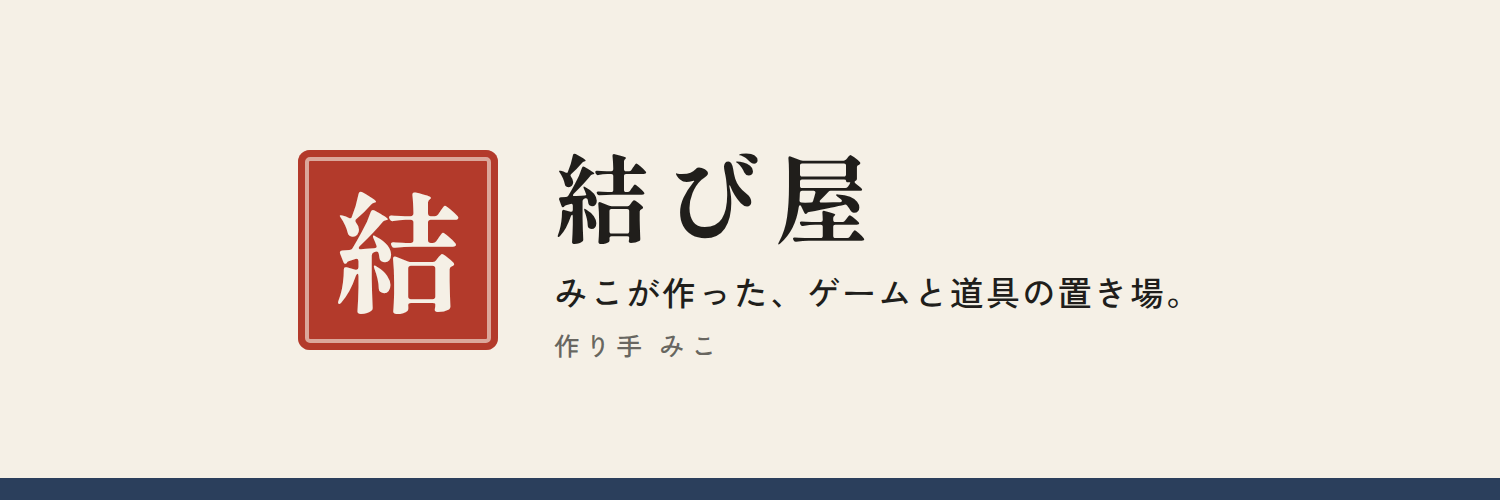
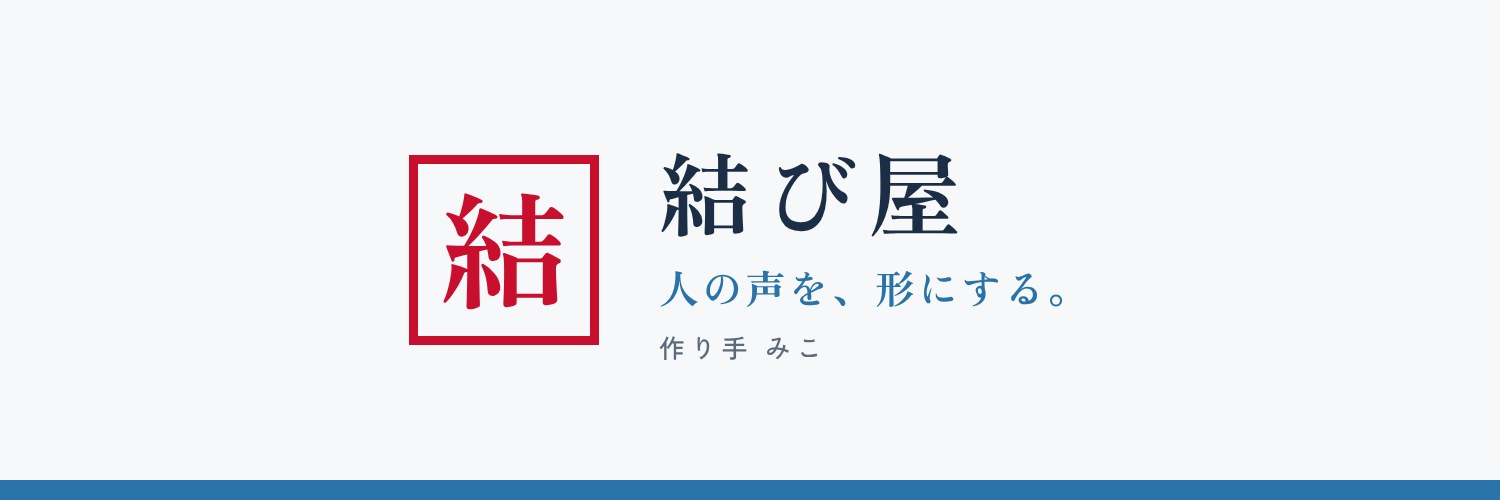
OFUSE の紹介文と画像を、今の結び屋に合わせて作り直す
- 紹介文を「人の声を、形にする。」と教室やお店向けの道具・解説に合わせる
- アイコンとヘッダーをサイトの今の見た目で作り直す（ofuse/ は公開されない）

Claude-Session: https://claude.ai/code/session_012Tf3nuDT6UEWzcpCGUkdww

Changed region(s): [[0.184, 0.3, 0.7973, 0.72], [0.0, 0.93, 1.0, 1.0]]

diff --git a/ofuse/images-source.html b/ofuse/images-source.html
@@ -1,19 +1,21 @@
 <!doctype html><html><head><meta charset="utf-8">
-<!-- OFUSE 用の画像（icon.png と header.png）のもと。ブラウザで開き、#icon（1000×1000）と #header（1500×500）をそれぞれ画像として書き出す。 -->
-<link rel="stylesheet" href="https://fonts.googleapis.com/css2?family=Shippori+Mincho+B1:wght@800&family=Zen+Kaku+Gothic+New:wght@500&display=swap">
+<!-- OFUSE 用の画像（icon.png と header.png）のもと。#icon（1000×1000）と #header（1500×500）をそれぞれ画像として書き出す。
+     2026-11-25 にサイトの今の見た目（水引の色：白磁・文字の紺・縹・紅、見出し Zen Old Mincho）とひと言「人の声を、形にする。」に合わせて作り直した。
+     書体は @fontsource（npm）の Zen Old Mincho 700 と Zen Kaku Gothic New 500 を読み込んで書き出した。 -->
+<link rel="stylesheet" href="https://fonts.googleapis.com/css2?family=Zen+Kaku+Gothic+New:wght@500&family=Zen+Old+Mincho:wght@700&display=swap">
 <style>
 html,body{margin:0}
-.icon{width:1000px;height:1000px;display:grid;place-items:center;background:#F5F0E6}
-.icon .seal{width:680px;height:680px;border-radius:32px;background:#B33A2B;display:grid;place-items:center;box-shadow:inset 0 0 0 20px #B33A2B,inset 0 0 0 31px rgba(245,240,230,.6)}
-.icon .seal span{font-family:"Shippori Mincho B1";font-weight:800;font-size:450px;line-height:1;color:#F5F0E6;transform:translateY(-10px)}
-.header{width:1500px;height:500px;background:#F5F0E6;color:#201E1B;display:flex;align-items:center;justify-content:center;gap:56px;position:relative;font-family:"Zen Kaku Gothic New"}
-.header::after{content:"";position:absolute;left:0;right:0;bottom:0;height:22px;background:#2B3F5C}
-.header .seal{width:200px;height:200px;border-radius:12px;background:#B33A2B;display:grid;place-items:center;box-shadow:inset 0 0 0 7px #B33A2B,inset 0 0 0 11px rgba(245,240,230,.6)}
-.header .seal span{font-family:"Shippori Mincho B1";font-weight:800;font-size:130px;line-height:1;color:#F5F0E6;transform:translateY(-4px)}
-.header .name{font-family:"Shippori Mincho B1";font-weight:800;font-size:96px;letter-spacing:.14em;line-height:1.2}
-.header .lead{margin-top:14px;font-size:34px;letter-spacing:.06em}
-.header .maker{margin-top:10px;font-size:26px;letter-spacing:.2em;color:rgba(32,30,27,.68)}
+.icon{width:1000px;height:1000px;display:grid;place-items:center;background:#F6F8FA}
+.icon .seal{width:640px;height:640px;border:26px solid #C8102E;box-sizing:border-box;display:grid;place-items:center}
+.icon .seal span{font-family:"Zen Old Mincho";font-weight:700;font-size:430px;line-height:1;color:#C8102E;transform:translateY(-14px)}
+.header{width:1500px;height:500px;background:#F6F8FA;color:#1B2E45;display:flex;align-items:center;justify-content:center;gap:60px;position:relative;font-family:"Zen Kaku Gothic New"}
+.header::after{content:"";position:absolute;left:0;right:0;bottom:0;height:20px;background:#2A73A8}
+.header .seal{width:190px;height:190px;border:9px solid #C8102E;box-sizing:border-box;display:grid;place-items:center}
+.header .seal span{font-family:"Zen Old Mincho";font-weight:700;font-size:128px;line-height:1;color:#C8102E;transform:translateY(-5px)}
+.header .name{font-family:"Zen Old Mincho";font-weight:700;font-size:92px;letter-spacing:.14em;line-height:1.2}
+.header .lead{margin-top:12px;font-family:"Zen Old Mincho";font-weight:700;font-size:40px;letter-spacing:.08em;color:#2A73A8}
+.header .maker{margin-top:12px;font-size:26px;letter-spacing:.2em;color:rgba(27,46,69,.7)}
 </style></head><body>
 <div class="icon" id="icon"><div class="seal"><span>結</span></div></div>
-<div class="header" id="header"><div class="seal"><span>結</span></div><div><div class="name">結び屋</div><div class="lead">みこが作った、ゲームと道具の置き場。</div><div class="maker">作り手 みこ</div></div></div>
+<div class="header" id="header"><div class="seal"><span>結</span></div><div><div class="name">結び屋</div><div class="lead">人の声を、形にする。</div><div class="maker">作り手 みこ</div></div></div>
 </body></html>

diff --git a/ofuse/入れる内容.md b/ofuse/入れる内容.md
@@ -28,21 +28,21 @@
 2. `musubiyamiko`
 3. `musubiya2026`
 
-## 2. 紹介文
+## 2. 紹介文（2026-11-25 に今の結び屋に合わせて入れ替え）
 
-文字数の上限に合わせて、入るほうを使ってください。
+文字数の上限に合わせて、入るほうを使ってください。前の文（「ゲームと道具の置き場」）は、ゲームの話をみこ攻に移したので使いません。
 
 **長い版**
 
 ```
-結び屋は、みこが作るゲームと道具の置き場です。攻略の計算ツール、紙の仕事を減らす道具、制作中のスマホ向けゲーム。道具はどれも無料で使えます。役に立ったら、お気持ちとして、応援として届けてもらえるとうれしいです。いただいたお気持ちは、結び屋の道具づくりに使います。作り手：みこ
+結び屋は、作り手みこの屋号です。「人の声を、形にする。」を芯に、教室やお店の予定表づくりに使える無料の道具と、その使い方の解説を置いています。道具は無料のまま、払わなくても使えます。役に立ったら、お気持ちとして、応援として届けてもらえるとうれしいです。いただいたお気持ちは、次の道具づくりに使います。作り手：みこ
 https://musubiya-miko.com/
 ```
 
 **短い版**
 
 ```
-みこが作るゲームと道具の置き場「結び屋」です。道具は無料のまま。役に立ったら、お気持ちと応援をお寄せください。作り手：みこ
+作り手みこの屋号「結び屋」です。教室やお店向けの無料の道具と解説を作っています。道具は無料のまま。役に立ったら、お気持ちと応援をお寄せください。
 https://musubiya-miko.com/
 ```
 
@@ -52,8 +52,8 @@ https://musubiya-miko.com/
 
 | 欄 | ファイル | 大きさ |
 | --- | --- | --- |
-| アイコン | `ofuse/icon.png` | 1000×1000（丸く切り抜かれても判子が欠けない余白にしてあります） |
-| ヘッダー（カバー） | `ofuse/header.png` | 1500×500 |
+| アイコン | `ofuse/icon.png` | 1000×1000（丸く切り抜かれても判子が欠けない余白にしてあります。2026-11-25 にサイトの今の見た目で作り直し） |
+| ヘッダー（カバー） | `ofuse/header.png` | 1500×500（2026-11-25 に作り直し。ひと言は「人の声を、形にする。」） |
 
 画面で指定された大きさが違ったら、指定の大きさを教えてください。作り直します。
 

diff --git a/journal/2026-11-25.md b/journal/2026-11-25.md
@@ -13,3 +13,10 @@
 - 問い（8つ、選ぶ画面）→ 下書き →「このまま」。足したもの：`docs/kaisetsu/taiken-nyukai.html`。本文から月謝の解説へつないだ。
 - つないだ所：ほかの解説8本の「あわせて読みたい」、2つの道具の「予定表づくりの解説」、`sitemap.xml`（プライバシーポリシーの更新日も 11/25 に）。
 - 確かめたこと：スマホの幅の見た目、全ページのリンクと画像に抜けなし。
+
+## OFUSE の紹介文と画像を、今の結び屋に合わせて作り直した
+
+- 社長の指示。前の紹介文とヘッダーは「ゲームと道具の置き場」のままだった（ゲームの話はみこ攻に移した）。
+- `ofuse/入れる内容.md` の紹介文を、「人の声を、形にする。」と教室やお店向けの無料の道具・解説に合わせた文に入れ替えた（「お気持ち」「応援」「道具は無料のまま」は前と同じ）。社長が「このまま」で確かめた。
+- `ofuse/icon.png`・`header.png` を、サイトの今の見た目（白磁・紺・縹・紅、Zen Old Mincho）で作り直した。もとは `ofuse/images-source.html`。
+- OFUSE の画面での入れ替えは、社長側で行う（依頼の文は要らない、と社長）。`ofuse/` は公開されない。
